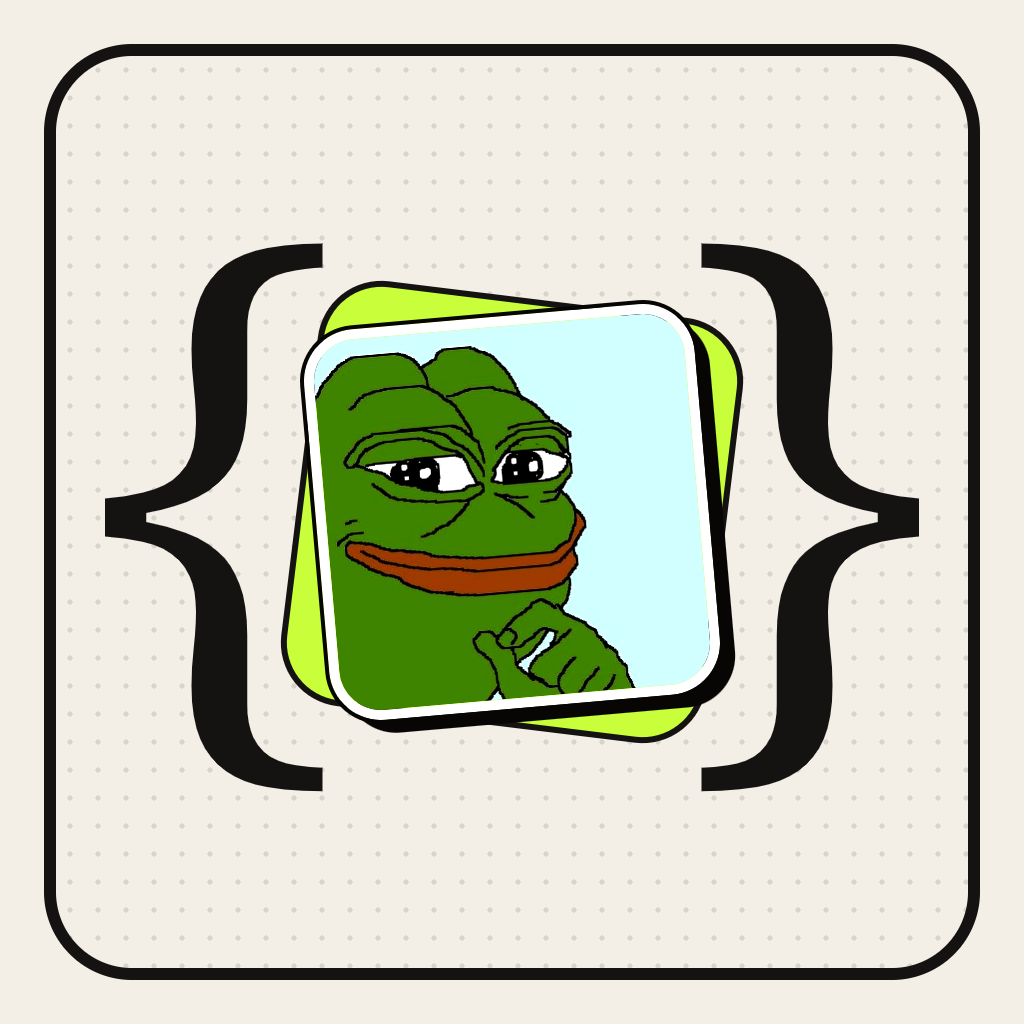
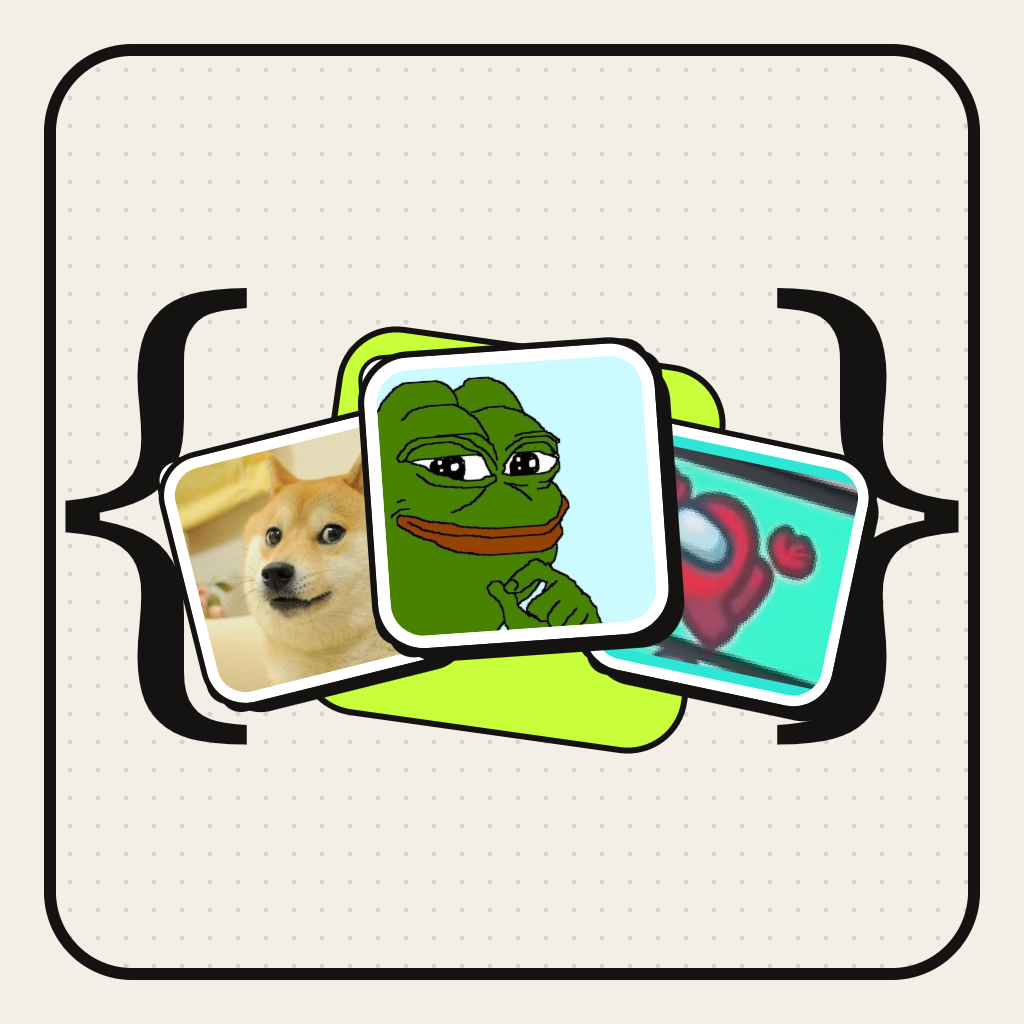
readme: new mark with doge, among us and pepe

Changed region(s): [[0.0625, 0.2188, 0.9375, 0.7812]]

diff --git a/docs/readme/mark.html b/docs/readme/mark.html
@@ -5,19 +5,52 @@
   html, body { width: 512px; height: 512px; }
   .page { width: 512px; height: 512px; background-image: none; }
   .frame { position: absolute; inset: 22px; border: 6px solid var(--ink); border-radius: 44px; background: var(--paper);
-    background-image: radial-gradient(rgba(20,19,17,.12) 1.2px, transparent 1.4px); background-size: 14px 14px; }
-  .brace { position: absolute; top: 50%; transform: translateY(-54%); font-size: 300px; font-family: Georgia, 'Times New Roman', serif; font-weight: 400; color: var(--ink); }
-  .brace.l { left: 14px; } .brace.r { right: 14px; }
-  .face { position: absolute; left: 50%; top: 50%; width: 196px; height: 196px; transform: translate(-50%, -50%) rotate(-5deg); }
-  .face img { width: 196px; height: 196px; border-radius: 26px; }
-  .lime { position: absolute; left: 50%; top: 50%; width: 214px; height: 214px; transform: translate(-50%, -50%) rotate(7deg);
-    background: var(--lime); border: 3px solid var(--ink); border-radius: 32px; }
+    background-image: radial-gradient(rgba(20,19,17,.12) 1.2px, transparent 1.4px); background-size: 14px 14px; overflow: hidden; }
+  .brace { position: absolute; top: 50%; transform: translateY(-54%); font-size: 250px; font-family: Georgia, 'Times New Roman', serif;
+    font-weight: 400; color: var(--ink); }
+  .brace.l { left: -4px; } .brace.r { right: -4px; }
+  .lime { position: absolute; left: 50%; top: 50%; width: 196px; height: 196px; margin: -98px 0 0 -98px; transform: translateY(14px) rotate(8deg);
+    background: var(--lime); border: 3px solid var(--ink); border-radius: 30px; }
+  .card { position: absolute; left: 50%; top: 50%; width: 140px; height: 140px; margin: -70px 0 0 -70px; }
+  .card img { width: 140px; height: 140px; object-fit: cover; border: 6px solid #fff; outline: 3px solid var(--ink);
+    border-radius: 22px; box-shadow: 7px 7px 0 var(--ink); background: #fff; display: block; }
+  .card img.px { image-rendering: pixelated; object-fit: contain; background: #2ee6d6; }
 </style></head>
 <body><div class="page">
   <div class="frame">
     <div class="brace l">{</div>
     <div class="brace r">}</div>
     <div class="lime"></div>
-    <span class="sticker face"><img src="../img/smug.jpg" alt=""></span>
+    <span class="card" id="c0"><img src="../img/doge.jpg" alt="" style="object-position: 38% 50%"></span>
+    <span class="card" id="c1"><img class="px" src="../img/amongus.png" alt=""></span>
+    <span class="card" id="c2"><img src="../img/smug.jpg" alt=""></span>
   </div>
-</div></body></html>
+</div>
+<script>
+// three slots: back-left, back-right, front. frame(t) shuffles the cards (front goes back-left) every 1.2 s.
+const SLOTS = [
+  { x: -104, y: 22, r: -14, s: .9, z: 2 },
+  { x: 106, y: 24, r: 12, s: .9, z: 3 },
+  { x: 0, y: -10, r: -4, s: 1.04, z: 4 },
+];
+const cards = [0, 1, 2].map(i => document.getElementById('c' + i));
+const ease = u => u < .5 ? 4 * u * u * u : 1 - Math.pow(-2 * u + 2, 3) / 2;
+function place(el, a, b, u) {
+  const k = ease(u), m = (p) => a[p] + (b[p] - a[p]) * k;
+  const lift = Math.sin(Math.PI * k) * (b.z > a.z ? -26 : 18);
+  el.style.transform = `translate(${m('x')}px, ${m('y') + lift}px) rotate(${m('r')}deg) scale(${m('s')})`;
+  el.style.zIndex = (u < .5 ? a.z : b.z);
+}
+window.frame = function (t) {          // t in seconds; loop = 3.6 s
+  const HOLD = .8, MOVE = .4, STEP = HOLD + MOVE;
+  const n = Math.floor(t / STEP), p = t - n * STEP;
+  const u = p < HOLD ? 0 : (p - HOLD) / MOVE;
+  cards.forEach((el, i) => {
+    const from = (i + n) % 3, to = (i + n + 1) % 3;
+    place(el, SLOTS[from], SLOTS[to], u);
+  });
+};
+window.LOOP = 3.6;
+window.frame(0);
+</script>
+</body></html>
